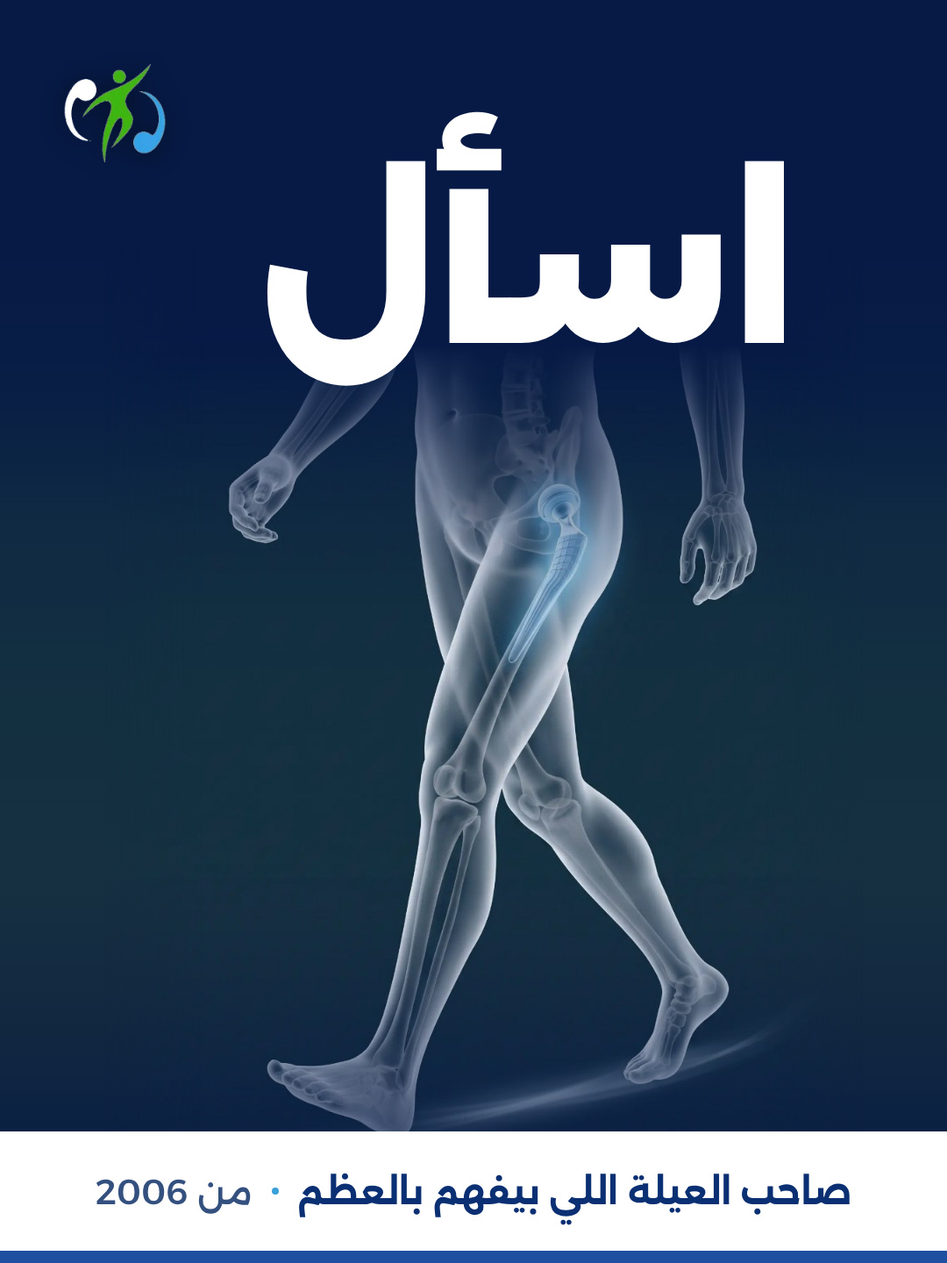
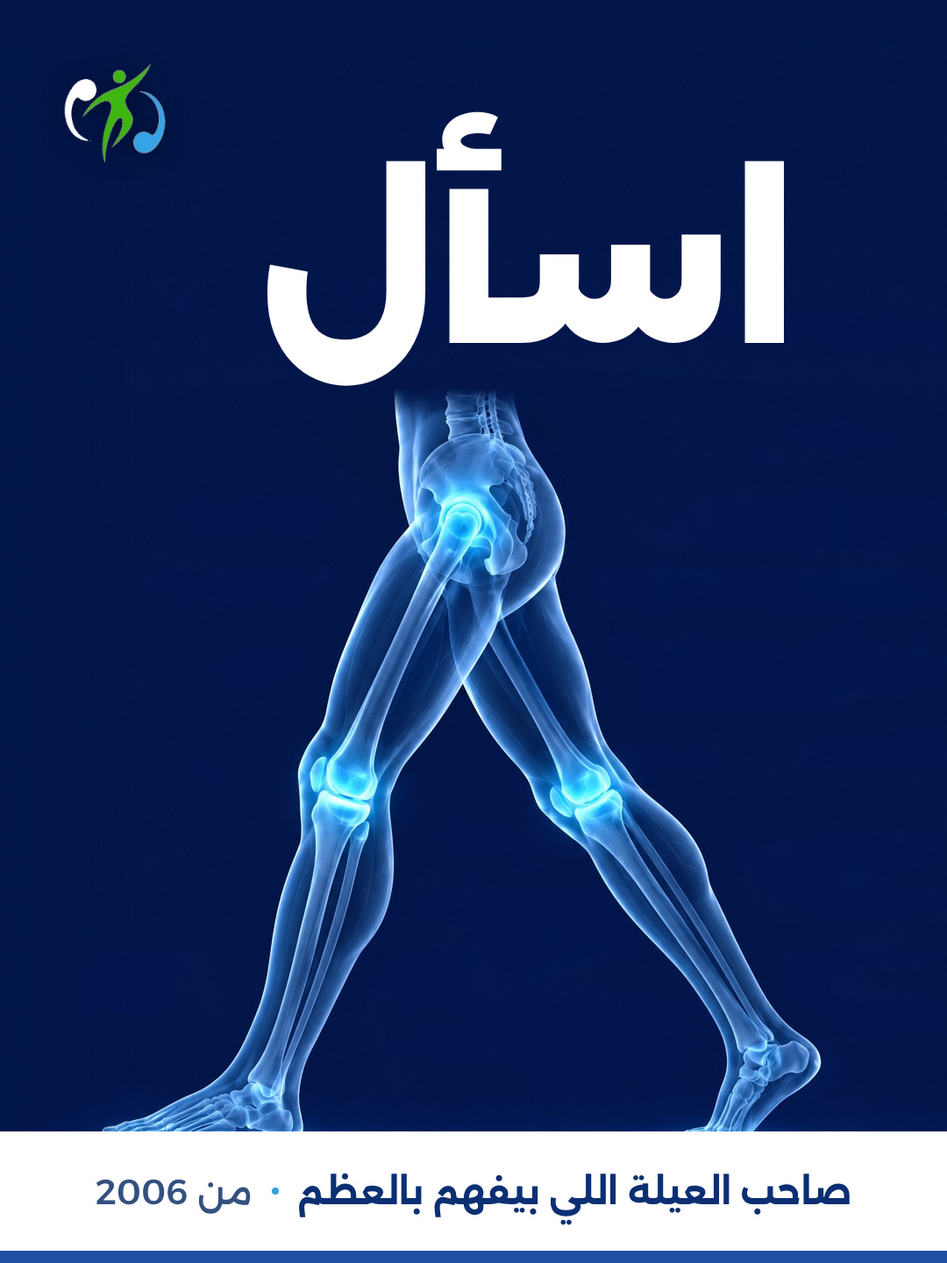
Add five more pinned-post versions and two highlight styles for AskMed
Versions B-F (white, journey, WhatsApp questions, and a single
Higgsfield panorama in two cuts) next to A, which now uses a new
Higgsfield image instead of the hip carousel's. White and blue
highlight cover styles, plus comparison sheets for both.

Claude-Session: https://claude.ai/code/session_011gFdiWchE1AAy7uyGwssmg

diff --git a/askmed-instagram/source/versions.html b/askmed-instagram/source/versions.html
@@ -1,0 +1,222 @@
+<!doctype html>
+<html lang="ar" dir="rtl">
+<head>
+<meta charset="utf-8">
+<link href="https://fonts.googleapis.com/css2?family=Alexandria:wght@400;500;600;700;800;900&display=swap" rel="stylesheet">
+<style>
+  :root { --navy: #061A45; --ink: #0A2F72; --logo-navy: #0A4A9C; --logo-sky: #2F9FE4; --sky: #63B8F7; --green: #5BB52C; --soft: #CFE3FA; }
+  * { box-sizing: border-box; }
+  html, body { margin: 0; padding: 0; background: #000; }
+  .pano { position: relative; width: 3240px; height: 1440px; overflow: hidden; font-family: 'Alexandria', sans-serif; }
+  .abs { position: absolute; }
+  .ltr { direction: ltr; unicode-bidi: isolate; }
+  .stripe { position: absolute; left: 0; right: 0; height: 12px; display: flex; direction: ltr; }
+  .stripe div { flex: 1; }
+  .cell { position: absolute; width: 1080px; display: flex; align-items: center; justify-content: center; gap: 20px; white-space: nowrap; font-weight: 700; font-size: 40px; }
+  .sep { width: 8px; height: 8px; border-radius: 50%; background: #3aa0da; }
+  .lock { position: absolute; top: 74px; display: flex; align-items: center; gap: 14px; direction: ltr; }
+  .lock .i { height: 92px; }
+  .lock .w { height: 50px; }
+
+  /* ---------- B · white, like the reference ---------- */
+  #B { background: #fff; color: var(--ink); }
+  #B .ring { position: absolute; border-radius: 50%; border: 3px solid #E4EFFA; }
+  #B .big { position: absolute; top: 400px; font-weight: 900; font-size: 420px; line-height: 1; letter-spacing: -6px; white-space: nowrap; direction: ltr; }
+  #B .tag { position: absolute; top: 880px; width: 1080px; text-align: center; font-size: 46px; font-weight: 600; color: #34507f; }
+  #B .tag b { color: var(--logo-sky); font-weight: 800; }
+  #B .photo { position: absolute; left: 2160px; top: 0; width: 1080px; height: 1300px; object-fit: cover; }
+  #B .shade { position: absolute; left: 2160px; top: 0; width: 1080px; height: 1300px;
+              background: linear-gradient(to bottom, rgba(2,22,74,0.9) 0%, rgba(2,22,74,0.5) 26%, rgba(2,22,74,0) 46%); }
+  #B .bar { position: absolute; left: 0; right: 0; bottom: 0; height: 140px; background: var(--ink); color: #fff; }
+
+  /* ---------- C · the journey ---------- */
+  #C { background: #02164a; color: #fff; }
+  #C .photo { position: absolute; top: 0; width: 1080px; height: 1440px; object-fit: cover; }
+  #C .shade { position: absolute; top: 0; width: 1080px; height: 1440px;
+              background: linear-gradient(to bottom, rgba(2,22,74,0.9) 0%, rgba(2,22,74,0.6) 27%, rgba(2,22,74,0) 46%, rgba(2,22,74,0) 60%, rgba(2,22,74,0.96) 82%); }
+  #C .mid { position: absolute; left: 1080px; top: 0; width: 1080px; height: 1440px;
+            background: radial-gradient(circle at 50% 52%, #0c2f78 0%, #05205f 40%, #02164a 78%); }
+  #C .phrase { position: absolute; top: 120px; width: 1080px; padding: 0 90px; text-align: right; font-weight: 900; font-size: 150px; line-height: 1.32; }
+  #C .phrase.acc { color: var(--sky); filter: drop-shadow(0 0 36px rgba(99,184,247,0.5)); }
+  #C .midlogo { position: absolute; left: 1080px; width: 1080px; top: 640px; display: flex; flex-direction: column; align-items: center; gap: 28px; }
+  #C .midlogo .row { display: flex; align-items: center; gap: 22px; direction: ltr; }
+  #C .midlogo .row img.i { height: 150px; }
+  #C .midlogo .row img.w { height: 110px; }
+  #C .midlogo .t { font-size: 44px; font-weight: 600; color: var(--soft); }
+  #C .track { position: absolute; top: 1128px; left: 150px; width: 2940px; height: 0; border-top: 5px dashed rgba(99,184,247,0.55); }
+  #C .node { position: absolute; top: 1106px; width: 48px; height: 48px; margin-left: -24px; border-radius: 50%; background: var(--sky); box-shadow: 0 0 0 10px rgba(99,184,247,0.22), 0 0 30px rgba(99,184,247,0.7); }
+  #C .node.g { background: var(--green); box-shadow: 0 0 0 10px rgba(91,181,44,0.22), 0 0 30px rgba(91,181,44,0.7); }
+  #C .nlabel { position: absolute; top: 1180px; width: 600px; margin-left: -300px; text-align: center; font-size: 42px; font-weight: 700; }
+  #C .arrow { position: absolute; top: 1110px; left: 104px; width: 0; height: 0; border-top: 20px solid transparent; border-bottom: 20px solid transparent; border-right: 34px solid rgba(99,184,247,0.85); }
+  #C .bar { position: absolute; left: 0; right: 0; bottom: 0; height: 120px; background: rgba(3,14,40,0.85); color: #fff; }
+  #C .bar .cell { font-size: 36px; font-weight: 600; color: #E6F0FB; }
+
+  /* ---------- D · questions from WhatsApp ---------- */
+  #D { background: #EEF6FD; color: var(--ink); }
+  #D .dots { position: absolute; inset: 0; background-image: radial-gradient(rgba(10,47,114,0.07) 3px, transparent 3.5px); background-size: 44px 44px; }
+  #D .word { position: absolute; top: 230px; width: 1080px; padding: 0 90px; text-align: right; font-weight: 900; font-size: 250px; line-height: 1.2; white-space: nowrap; }
+  #D .word.acc { color: var(--logo-sky); }
+  .bub { position: absolute; max-width: 860px; padding: 34px 44px; font-size: 44px; font-weight: 600; line-height: 1.6; border-radius: 48px; box-shadow: 0 18px 40px -22px rgba(10,47,114,0.45); }
+  .bub.q { background: #fff; color: var(--ink); border-top-right-radius: 10px; }
+  .bub.a { background: var(--ink); color: #fff; border-top-left-radius: 10px; }
+  .bub .who { display: block; font-size: 30px; font-weight: 700; color: #6a7f9f; margin-bottom: 8px; }
+  .bub.a .who { color: var(--sky); }
+  .wa { display: inline-flex; align-items: center; gap: 16px; background: #fff; color: var(--ink); border-radius: 999px; padding: 18px 36px; font-size: 42px; font-weight: 800; }
+  #D .bar { position: absolute; left: 0; right: 0; bottom: 0; height: 130px; background: #fff; color: var(--ink); }
+
+  /* ---------- E / F · one image across the three posts ---------- */
+  .pe { color: #fff; background: #02164a; }
+  .pe .bg { position: absolute; left: 0; top: 0; width: 3240px; height: 1440px; }
+  .pe .top { position: absolute; left: 0; top: 0; width: 3240px; height: 520px; background: linear-gradient(to bottom, rgba(2,22,74,0.55), rgba(2,22,74,0)); }
+  .pe .w { position: absolute; top: 90px; width: 1080px; padding: 0 100px; text-align: right; font-weight: 900; font-size: 210px; line-height: 1.25; white-space: nowrap; }
+  .pe .w.acc { color: var(--sky); filter: drop-shadow(0 0 36px rgba(99,184,247,0.55)); }
+  .pe .lbl { position: absolute; top: 375px; width: 1080px; padding: 0 104px; text-align: right; font-size: 46px; font-weight: 700; color: var(--soft); }
+  .pe .lbl span { display: inline-block; background: rgba(99,184,247,0.16); border: 2px solid rgba(99,184,247,0.45); border-radius: 999px; padding: 8px 28px; }
+  .pe .icon { position: absolute; top: 74px; height: 96px; }
+  .pe .bar { position: absolute; left: 0; right: 0; bottom: 0; height: 120px; background: rgba(1,10,40,0.82); }
+  .pe .bar .cell { font-size: 36px; font-weight: 600; color: #E6F0FB; }
+</style>
+</head>
+<body>
+
+<!-- ======================= B ======================= -->
+<div class="pano" id="B">
+  <div class="ring" style="left: 380px; top: -140px; width: 1400px; height: 1400px;"></div>
+  <div class="ring" style="left: 560px; top: 40px; width: 1040px; height: 1040px;"></div>
+
+  <div class="lock" style="left: 72px"><img class="i" src="assets/icon-dark.png" alt=""><img class="w" src="assets/wordmark-dark.png" alt=""></div>
+  <div class="lock" style="left: 1152px"><img class="i" src="assets/icon-dark.png" alt=""><img class="w" src="assets/wordmark-dark.png" alt=""></div>
+
+  <div class="big" style="right: calc(3240px - 1080px + 22px); color: var(--logo-navy)">Ask</div>
+  <div class="big" style="left: calc(1080px - 6px); color: var(--logo-sky)">med</div>
+
+  <div class="tag" style="left: 0">من 2006 <b>·</b> طرابلس، لبنان</div>
+  <div class="tag" style="left: 1080px">عظم وتعافي <b>·</b> مع دكاترة الشمال</div>
+
+  <img class="photo" src="assets/tray.jpg" alt="">
+  <div class="shade"></div>
+  <div class="abs" style="left: 2160px; top: 120px; width: 1080px; padding: 0 100px; text-align: right; color: #fff;">
+    <div style="font-size: 170px; font-weight: 900; line-height: 1.3;">تعرّف</div>
+    <div style="font-size: 170px; font-weight: 900; line-height: 1.3; color: var(--sky);">على</div>
+  </div>
+
+  <div class="bar">
+    <div class="stripe" style="top: 0"><div style="background:#1f4fa0"></div><div style="background:#3aa0da"></div><div style="background:#3f9a35"></div></div>
+    <div class="cell" style="left: 0; top: 12px; height: 128px"><span class="ltr">@askmedlb</span><span class="sep"></span><span class="ltr" style="font-weight:500">askmedlb.com</span></div>
+    <div class="cell" style="left: 1080px; top: 12px; height: 128px"><span class="ltr">+961 76 103 507</span><span class="sep"></span><span style="font-weight:500">للأسئلة والطلبات</span></div>
+    <div class="cell" style="left: 2160px; top: 12px; height: 128px"><span>صاحب العيلة اللي بيفهم بالعظم</span></div>
+  </div>
+</div>
+
+<!-- ======================= C ======================= -->
+<div class="pano" id="C">
+  <img class="abs" src="assets/legs.jpg" alt="" style="left: 110px; top: 250px; width: 860px; height: 1151px; -webkit-mask-image: linear-gradient(to right, transparent 0, #000 12%, #000 88%, transparent 100%); mask-image: linear-gradient(to right, transparent 0, #000 12%, #000 88%, transparent 100%);">
+  <div class="shade" style="left: 0"></div>
+  <div class="mid"></div>
+  <img class="photo" src="assets/tray.jpg" alt="" style="left: 2160px">
+  <div class="shade" style="left: 2160px"></div>
+
+  <div class="phrase" style="left: 2160px">من غرفة<br>العمليات</div>
+  <div class="phrase" style="left: 1080px">لحدّ ما</div>
+  <div class="phrase acc" style="left: 0">ترجع<br>تمشي.</div>
+
+  <div class="midlogo">
+    <div class="row"><img class="i" src="assets/icon-white.png" alt=""><img class="w" src="assets/wordmark-white.png" alt="Askmed"></div>
+    <div class="t">معك بكل خطوة، من 2006</div>
+  </div>
+
+  <div class="track"></div>
+  <div class="arrow"></div>
+  <div class="node" style="left: 2700px"></div>
+  <div class="node" style="left: 1620px"></div>
+  <div class="node g" style="left: 540px"></div>
+  <div class="nlabel" style="left: 2700px">العملية</div>
+  <div class="nlabel" style="left: 1620px">التعافي بالبيت</div>
+  <div class="nlabel" style="left: 540px">أوّل خطوة</div>
+
+  <div class="bar">
+    <div class="cell" style="left: 0; top: 0; height: 108px"><span class="ltr">@askmedlb</span><span class="sep"></span><span class="ltr">askmedlb.com</span></div>
+    <div class="cell" style="left: 1080px; top: 0; height: 108px">
+      <svg width="40" height="40" viewBox="0 0 24 24" fill="none" stroke="#7fd174" stroke-width="2.2" stroke-linecap="round" stroke-linejoin="round" aria-hidden="true"><path d="M21 11.5a8.4 8.4 0 0 1-12.4 7.4L3 20.5l1.7-5.4A8.4 8.4 0 1 1 21 11.5z"></path></svg>
+      <span class="ltr">+961 76 103 507</span></div>
+    <div class="cell" style="left: 2160px; top: 0; height: 108px"><span>صاحب العيلة اللي بيفهم بالعظم</span></div>
+    <div class="stripe" style="bottom: 0"><div style="background:#1f4fa0"></div><div style="background:#3aa0da"></div><div style="background:#3f9a35"></div></div>
+  </div>
+</div>
+
+<!-- ======================= D ======================= -->
+<div class="pano" id="D">
+  <div class="dots"></div>
+  <img class="abs" src="assets/icon-dark.png" alt="" style="left: 72px; top: 74px; height: 100px">
+  <img class="abs" src="assets/icon-dark.png" alt="" style="left: 1152px; top: 74px; height: 100px">
+  <img class="abs" src="assets/icon-dark.png" alt="" style="left: 2232px; top: 74px; height: 100px">
+
+  <div class="word" style="left: 2160px">عندك</div>
+  <div class="word" style="left: 1080px">سؤال؟</div>
+  <div class="word acc" style="left: 0">اسألنا.</div>
+
+  <!-- questions, the way they come in on WhatsApp -->
+  <div class="bub q" style="right: 110px; top: 720px; max-width: 860px;"><span class="who">سؤال من الواتساب</span>إمّي رح تعمل عملية ركبة، شو لازم نحضّر بالبيت؟</div>
+  <div class="bub q" style="right: calc(1080px + 110px); top: 690px; max-width: 820px;"><span class="who">سؤال من الواتساب</span>شو القياس المناسب لمشدّ الضهر؟</div>
+  <div class="bub q" style="right: calc(1080px + 250px); top: 980px; max-width: 700px;">بتوصلوا لعكّار؟</div>
+
+  <!-- the answer -->
+  <div class="bub a" style="left: 110px; top: 700px; max-width: 860px;"><span class="who">Askmed</span>أكيد! ابعتلنا سؤالك، ومنجاوبك بوضوح، خطوة بخطوة.</div>
+  <div class="abs" style="left: 110px; top: 1030px; direction: ltr;"><span class="wa">
+    <svg width="46" height="46" viewBox="0 0 24 24" fill="none" stroke="#3f9a35" stroke-width="2.2" stroke-linecap="round" stroke-linejoin="round" aria-hidden="true"><path d="M21 11.5a8.4 8.4 0 0 1-12.4 7.4L3 20.5l1.7-5.4A8.4 8.4 0 1 1 21 11.5z"></path></svg>
+    +961 76 103 507</span></div>
+
+  <div class="bar">
+    <div class="cell" style="left: 0; top: 0; height: 118px"><span class="ltr">@askmedlb</span><span class="sep"></span><span class="ltr" style="font-weight:500">askmedlb.com</span></div>
+    <div class="cell" style="left: 1080px; top: 0; height: 118px"><span>عظم، كسور، وتعافي</span><span class="sep"></span><span style="font-weight:500">من 2006</span></div>
+    <div class="cell" style="left: 2160px; top: 0; height: 118px"><span>صاحب العيلة اللي بيفهم بالعظم</span></div>
+    <div class="stripe" style="bottom: 0"><div style="background:#1f4fa0"></div><div style="background:#3aa0da"></div><div style="background:#3f9a35"></div></div>
+  </div>
+</div>
+
+
+<div class="pano pe" id="E">
+  <img class="bg" src="assets/pano2.jpg" alt="">
+  <div class="top"></div>
+  <img class="icon" src="assets/icon-white.png" alt="" style="left: 72px">
+  <img class="icon" src="assets/icon-white.png" alt="" style="left: 1152px">
+  <img class="icon" src="assets/icon-white.png" alt="" style="left: 2232px">
+  <div class="w" style="left: 2160px">خطوة</div>
+  <div class="w" style="left: 1080px">بخطوة،</div>
+  <div class="w acc" style="left: 0">معك.</div>
+  <div class="lbl" style="left: 2160px"><span>أوّل يوم بعد العملية</span></div>
+  <div class="lbl" style="left: 1080px"><span>أوّل خطوة</span></div>
+  <div class="lbl" style="left: 0"><span>رجعت تمشي</span></div>
+  <div class="bar">
+    <div class="cell" style="left: 0; top: 0; height: 108px"><span class="ltr">@askmedlb</span><span class="sep"></span><span class="ltr">askmedlb.com</span></div>
+    <div class="cell" style="left: 1080px; top: 0; height: 108px">
+      <svg width="40" height="40" viewBox="0 0 24 24" fill="none" stroke="#7fd174" stroke-width="2.2" stroke-linecap="round" stroke-linejoin="round" aria-hidden="true"><path d="M21 11.5a8.4 8.4 0 0 1-12.4 7.4L3 20.5l1.7-5.4A8.4 8.4 0 1 1 21 11.5z"></path></svg>
+      <span class="ltr">+961 76 103 507</span></div>
+    <div class="cell" style="left: 2160px; top: 0; height: 108px"><span>Askmed معك من 2006</span></div>
+    <div class="stripe" style="bottom: 0"><div style="background:#1f4fa0"></div><div style="background:#3aa0da"></div><div style="background:#3f9a35"></div></div>
+  </div>
+</div>
+
+<div class="pano pe" id="F">
+  <img class="bg" src="assets/pano1.jpg" alt="">
+  <div class="top"></div>
+  <img class="icon" src="assets/icon-white.png" alt="" style="left: 72px">
+  <img class="icon" src="assets/icon-white.png" alt="" style="left: 1152px">
+  <img class="icon" src="assets/icon-white.png" alt="" style="left: 2232px">
+  <div class="w" style="left: 2160px">خطوة</div>
+  <div class="w" style="left: 1080px">بخطوة،</div>
+  <div class="w acc" style="left: 0">معك.</div>
+  <div class="lbl" style="left: 2160px"><span>أوّل يوم بعد العملية</span></div>
+  <div class="lbl" style="left: 1080px"><span>أوّل خطوة</span></div>
+  <div class="lbl" style="left: 0"><span>رجعت تمشي</span></div>
+  <div class="bar">
+    <div class="cell" style="left: 0; top: 0; height: 108px"><span class="ltr">@askmedlb</span><span class="sep"></span><span class="ltr">askmedlb.com</span></div>
+    <div class="cell" style="left: 1080px; top: 0; height: 108px">
+      <svg width="40" height="40" viewBox="0 0 24 24" fill="none" stroke="#7fd174" stroke-width="2.2" stroke-linecap="round" stroke-linejoin="round" aria-hidden="true"><path d="M21 11.5a8.4 8.4 0 0 1-12.4 7.4L3 20.5l1.7-5.4A8.4 8.4 0 1 1 21 11.5z"></path></svg>
+      <span class="ltr">+961 76 103 507</span></div>
+    <div class="cell" style="left: 2160px; top: 0; height: 108px"><span>Askmed معك من 2006</span></div>
+    <div class="stripe" style="bottom: 0"><div style="background:#1f4fa0"></div><div style="background:#3aa0da"></div><div style="background:#3f9a35"></div></div>
+  </div>
+</div>
+</body>
+</html>

diff --git a/askmed-instagram/source/compare.html b/askmed-instagram/source/compare.html
@@ -1,0 +1,27 @@
+<!doctype html><html lang="ar" dir="rtl"><head><meta charset="utf-8">
+<link href="https://fonts.googleapis.com/css2?family=Alexandria:wght@400;600;800;900&display=swap" rel="stylesheet">
+<style>*{box-sizing:border-box}html,body{margin:0;background:#fff}
+.sheet{width:1080px;background:#fff;font-family:'Alexandria',sans-serif;color:#0A2F72;padding:36px 0 30px}
+.v{padding:26px 0 18px}.v+.v{border-top:1px solid #e3e8ef}
+.h{display:flex;align-items:center;gap:18px;padding:0 36px 16px}
+.k{flex:0 0 auto;width:64px;height:64px;border-radius:50%;background:#0A2F72;color:#fff;display:flex;align-items:center;justify-content:center;font-size:34px;font-weight:900;font-family:Arial,sans-serif}
+.t{font-size:34px;font-weight:800;line-height:1.3}.d{font-size:23px;font-weight:400;color:#5b6b85;line-height:1.5;margin-top:2px}
+.grid{display:flex;direction:ltr;gap:3px}.grid img{width:358px;display:block}
+.row{display:flex;gap:20px;padding:0 36px}.c{width:150px;display:flex;flex-direction:column;align-items:center;gap:10px}
+.ring{width:148px;height:148px;border-radius:50%;padding:6px;border:3px solid #d6dbe3}
+.ring div{width:100%;height:100%;border-radius:50%;background-size:145% auto;background-position:center}
+.c b{font-size:21px;font-weight:600;color:#13213a;white-space:nowrap}
+</style></head><body>
+<div class="sheet" id="compare">
+<div class="v"><div class="h"><div class="k">A</div><div><div class="t">«اسأل Askmed» · كحلي</div><div class="d">الكلمة مقسومة عـ 3 متل اللوغو، وتحت كل وحدة معلومة.</div></div></div><div class="grid"><img src="/home/user/invitation/askmed-instagram/pinned/post-3_left.jpg" alt=""><img src="/home/user/invitation/askmed-instagram/pinned/post-2_middle.jpg" alt=""><img src="/home/user/invitation/askmed-instagram/pinned/post-1_right.jpg" alt=""></div></div>
+<div class="v"><div class="h"><div class="k">B</div><div><div class="t">«تعرّف على Askmed» · أبيض</div><div class="d">الأقرب لصفحة الدكتورة: أبيض، اسم كبير، وصورة عاليمين.</div></div></div><div class="grid"><img src="/home/user/invitation/askmed-instagram/versions/B-ta3arraf-3ala-askmed/post-3_left.jpg" alt=""><img src="/home/user/invitation/askmed-instagram/versions/B-ta3arraf-3ala-askmed/post-2_middle.jpg" alt=""><img src="/home/user/invitation/askmed-instagram/versions/B-ta3arraf-3ala-askmed/post-1_right.jpg" alt=""></div></div>
+<div class="v"><div class="h"><div class="k">C</div><div><div class="t">«من غرفة العمليات لحدّ ما ترجع تمشي»</div><div class="d">قصة بـ 3 مراحل، وخط بيوصل بيناتهن.</div></div></div><div class="grid"><img src="/home/user/invitation/askmed-instagram/versions/C-men-ghorfet-el-3amaliyyet/post-3_left.jpg" alt=""><img src="/home/user/invitation/askmed-instagram/versions/C-men-ghorfet-el-3amaliyyet/post-2_middle.jpg" alt=""><img src="/home/user/invitation/askmed-instagram/versions/C-men-ghorfet-el-3amaliyyet/post-1_right.jpg" alt=""></div></div>
+<div class="v"><div class="h"><div class="k">D</div><div><div class="t">«عندك سؤال؟ اسألنا.» · فاتح</div><div class="d">أسئلة متل اللي بتوصل عالواتساب، والجواب من Askmed.</div></div></div><div class="grid"><img src="/home/user/invitation/askmed-instagram/versions/D-3endak-so2al/post-3_left.jpg" alt=""><img src="/home/user/invitation/askmed-instagram/versions/D-3endak-so2al/post-2_middle.jpg" alt=""><img src="/home/user/invitation/askmed-instagram/versions/D-3endak-so2al/post-1_right.jpg" alt=""></div></div>
+<div class="v"><div class="h"><div class="k">E</div><div><div class="t">«خطوة بخطوة، معك.» · صورة وحدة عالـ 3</div><div class="d">صورة Higgsfield وحدة عريضة: من التخت، للـ walker، للمشي.</div></div></div><div class="grid"><img src="/home/user/invitation/askmed-instagram/versions/E-khotwe-b-khotwe/post-3_left.jpg" alt=""><img src="/home/user/invitation/askmed-instagram/versions/E-khotwe-b-khotwe/post-2_middle.jpg" alt=""><img src="/home/user/invitation/askmed-instagram/versions/E-khotwe-b-khotwe/post-1_right.jpg" alt=""></div></div>
+<div class="v"><div class="h"><div class="k">F</div><div><div class="t">«خطوة بخطوة، معك.» · نفس E برجّال</div><div class="d">نفس الفكرة، والعكّازة بدل الـ walker.</div></div></div><div class="grid"><img src="/home/user/invitation/askmed-instagram/versions/F-khotwe-b-khotwe-rajol/post-3_left.jpg" alt=""><img src="/home/user/invitation/askmed-instagram/versions/F-khotwe-b-khotwe-rajol/post-2_middle.jpg" alt=""><img src="/home/user/invitation/askmed-instagram/versions/F-khotwe-b-khotwe-rajol/post-1_right.jpg" alt=""></div></div>
+</div>
+<div class="sheet" id="hlstyles">
+<div class="v"><div class="h"><div class="k">1</div><div><div class="t">highlights · كحلي</div></div></div><div class="row"><div class="c"><div class="ring"><div style="background-image:url(/home/user/invitation/askmed-instagram/highlights/covers/1-min-nehna.jpg)"></div></div><b>مين نحنا</b></div><div class="c"><div class="ring"><div style="background-image:url(/home/user/invitation/askmed-instagram/highlights/covers/2-el-montajet.jpg)"></div></div><b>المنتجات</b></div><div class="c"><div class="ring"><div style="background-image:url(/home/user/invitation/askmed-instagram/highlights/covers/3-is2alna.jpg)"></div></div><b>اسألنا</b></div><div class="c"><div class="ring"><div style="background-image:url(/home/user/invitation/askmed-instagram/highlights/covers/4-el-2iyesat.jpg)"></div></div><b>القياسات</b></div><div class="c"><div class="ring"><div style="background-image:url(/home/user/invitation/askmed-instagram/highlights/covers/5-el-tawsil.jpg)"></div></div><b>التوصيل</b></div><div class="c"><div class="ring"><div style="background-image:url(/home/user/invitation/askmed-instagram/highlights/covers/6-wen-nehna.jpg)"></div></div><b>وين نحنا</b></div></div></div>
+<div class="v"><div class="h"><div class="k">2</div><div><div class="t">highlights · أبيض</div></div></div><div class="row"><div class="c"><div class="ring"><div style="background-image:url(/home/user/invitation/askmed-instagram/highlights/covers-white/1-min-nehna.jpg)"></div></div><b>مين نحنا</b></div><div class="c"><div class="ring"><div style="background-image:url(/home/user/invitation/askmed-instagram/highlights/covers-white/2-el-montajet.jpg)"></div></div><b>المنتجات</b></div><div class="c"><div class="ring"><div style="background-image:url(/home/user/invitation/askmed-instagram/highlights/covers-white/3-is2alna.jpg)"></div></div><b>اسألنا</b></div><div class="c"><div class="ring"><div style="background-image:url(/home/user/invitation/askmed-instagram/highlights/covers-white/4-el-2iyesat.jpg)"></div></div><b>القياسات</b></div><div class="c"><div class="ring"><div style="background-image:url(/home/user/invitation/askmed-instagram/highlights/covers-white/5-el-tawsil.jpg)"></div></div><b>التوصيل</b></div><div class="c"><div class="ring"><div style="background-image:url(/home/user/invitation/askmed-instagram/highlights/covers-white/6-wen-nehna.jpg)"></div></div><b>وين نحنا</b></div></div></div>
+<div class="v"><div class="h"><div class="k">3</div><div><div class="t">highlights · أزرق</div></div></div><div class="row"><div class="c"><div class="ring"><div style="background-image:url(/home/user/invitation/askmed-instagram/highlights/covers-blue/1-min-nehna.jpg)"></div></div><b>مين نحنا</b></div><div class="c"><div class="ring"><div style="background-image:url(/home/user/invitation/askmed-instagram/highlights/covers-blue/2-el-montajet.jpg)"></div></div><b>المنتجات</b></div><div class="c"><div class="ring"><div style="background-image:url(/home/user/invitation/askmed-instagram/highlights/covers-blue/3-is2alna.jpg)"></div></div><b>اسألنا</b></div><div class="c"><div class="ring"><div style="background-image:url(/home/user/invitation/askmed-instagram/highlights/covers-blue/4-el-2iyesat.jpg)"></div></div><b>القياسات</b></div><div class="c"><div class="ring"><div style="background-image:url(/home/user/invitation/askmed-instagram/highlights/covers-blue/5-el-tawsil.jpg)"></div></div><b>التوصيل</b></div><div class="c"><div class="ring"><div style="background-image:url(/home/user/invitation/askmed-instagram/highlights/covers-blue/6-wen-nehna.jpg)"></div></div><b>وين نحنا</b></div></div></div>
+</div></body></html>

diff --git a/askmed-instagram/source/pinned.html b/askmed-instagram/source/pinned.html
@@ -21,16 +21,14 @@
     font-family: 'Alexandria', sans-serif;
     color: #fff;
     /* stops follow the walking-figure image so its edges disappear into the background */
-    background: linear-gradient(to bottom,
-      #071a45 0px, #071a45 280px, #081e45 440px, #102a43 600px,
-      #133040 820px, #163041 1000px, #122840 1160px, #071d44 1360px, #071d44 1440px);
+    background: #02164a;
   }
   .walk {
     position: absolute;
-    left: 2280px; top: 280px;
-    width: 864px; height: 1080px;
-    -webkit-mask-image: linear-gradient(to right, transparent 0, #000 13%, #000 87%, transparent 100%);
-            mask-image: linear-gradient(to right, transparent 0, #000 13%, #000 87%, transparent 100%);
+    left: 2160px; top: 50px;
+    width: 1080px; height: 1446px;
+    -webkit-mask-image: linear-gradient(to right, transparent 0, #000 14%, #000 100%);
+            mask-image: linear-gradient(to right, transparent 0, #000 14%, #000 100%);
   }
   .glow {
     position: absolute;
@@ -87,7 +85,7 @@
 </head>
 <body>
 <div id="pano">
-  <img class="walk" src="assets/walk.jpg" alt="">
+  <img class="walk" src="assets/legs.jpg" alt="">
   <div class="glow"></div>
 
   <!-- logo icon, top-left of each tile -->

diff --git a/askmed-instagram/source/gen_sheets.py b/askmed-instagram/source/gen_sheets.py
@@ -1,0 +1,34 @@
+# Builds compare.html (all pinned versions) and hl-styles.html (highlight cover styles).
+import json, sys
+O = '/home/user/invitation/askmed-instagram'
+versions = json.load(open('versions.json', encoding='utf-8'))
+head = '''<!doctype html><html lang="ar" dir="rtl"><head><meta charset="utf-8">
+<link href="https://fonts.googleapis.com/css2?family=Alexandria:wght@400;600;800;900&display=swap" rel="stylesheet">
+<style>*{box-sizing:border-box}html,body{margin:0;background:#fff}
+.sheet{width:1080px;background:#fff;font-family:'Alexandria',sans-serif;color:#0A2F72;padding:36px 0 30px}
+.v{padding:26px 0 18px}.v+.v{border-top:1px solid #e3e8ef}
+.h{display:flex;align-items:center;gap:18px;padding:0 36px 16px}
+.k{flex:0 0 auto;width:64px;height:64px;border-radius:50%;background:#0A2F72;color:#fff;display:flex;align-items:center;justify-content:center;font-size:34px;font-weight:900;font-family:Arial,sans-serif}
+.t{font-size:34px;font-weight:800;line-height:1.3}.d{font-size:23px;font-weight:400;color:#5b6b85;line-height:1.5;margin-top:2px}
+.grid{display:flex;direction:ltr;gap:3px}.grid img{width:358px;display:block}
+.row{display:flex;gap:20px;padding:0 36px}.c{width:150px;display:flex;flex-direction:column;align-items:center;gap:10px}
+.ring{width:148px;height:148px;border-radius:50%;padding:6px;border:3px solid #d6dbe3}
+.ring div{width:100%;height:100%;border-radius:50%;background-size:145% auto;background-position:center}
+.c b{font-size:21px;font-weight:600;color:#13213a;white-space:nowrap}
+</style></head><body>'''
+parts = [head, '<div class="sheet" id="compare">']
+for v in versions:
+    imgs = ''.join(f'<img src="{O}/{v["dir"]}/{n}.jpg" alt="">' for n in ['post-3_left', 'post-2_middle', 'post-1_right'])
+    parts.append(f'<div class="v"><div class="h"><div class="k">{v["key"]}</div><div><div class="t">{v["title"]}</div>'
+                 f'<div class="d">{v["desc"]}</div></div></div><div class="grid">{imgs}</div></div>')
+parts.append('</div>')
+labels = ['مين نحنا', 'المنتجات', 'اسألنا', 'القياسات', 'التوصيل', 'وين نحنا']
+slugs = ['1-min-nehna', '2-el-montajet', '3-is2alna', '4-el-2iyesat', '5-el-tawsil', '6-wen-nehna']
+styles = [('1', 'كحلي', 'covers'), ('2', 'أبيض', 'covers-white'), ('3', 'أزرق', 'covers-blue')]
+parts.append('<div class="sheet" id="hlstyles">')
+for k, name, d in styles:
+    cells = ''.join(f'<div class="c"><div class="ring"><div style="background-image:url({O}/highlights/{d}/{s}.jpg)"></div></div><b>{l}</b></div>'
+                    for s, l in zip(slugs, labels))
+    parts.append(f'<div class="v"><div class="h"><div class="k">{k}</div><div><div class="t">highlights · {name}</div></div></div><div class="row">{cells}</div></div>')
+parts.append('</div></body></html>')
+open('compare.html', 'w', encoding='utf-8').write('\n'.join(parts))

diff --git a/askmed-instagram/source/gen_hl_themes.py b/askmed-instagram/source/gen_hl_themes.py
@@ -1,0 +1,31 @@
+# Builds hl-themes.html: the six highlight covers in the white and blue styles.
+ICONS = [
+  'LOGO',
+  '<path d="M13 22h38l-3.2 32.5a2 2 0 0 1-2 1.8H18.2a2 2 0 0 1-2-1.8z"/><path d="M24 26v-7a8 8 0 0 1 16 0v7"/><path d="M27 40l4 4 7-8" stroke="{g}"/>',
+  '<path d="M12 12h40a3 3 0 0 1 3 3v24a3 3 0 0 1-3 3H30l-11 9v-9h-7a3 3 0 0 1-3-3V15a3 3 0 0 1 3-3z"/><path d="M27 23.5a5 5 0 1 1 7.2 4.5c-1.4.7-2.2 1.8-2.2 3.3v1" stroke="{s}"/><circle cx="32" cy="36.6" r="0.6" fill="{s}" stroke="{s}" stroke-width="2.6"/>',
+  '<path d="M8 44L44 8l12 12-36 36z"/><path d="M16.2 35.8l5 5M27.2 24.8l5 5M38.2 13.8l5 5" stroke="{g}"/><path d="M21.7 30.3l3 3M32.7 19.3l3 3" stroke="{s}"/>',
+  '<path d="M6 17h31v26H6z"/><path d="M37 25h10.5L56 34v9H37"/><circle cx="17" cy="45" r="5" fill="{bg}"/><circle cx="46" cy="45" r="5" fill="{bg}"/><path d="M13 26h12M13 32h8" stroke="{s}"/>',
+  '<path d="M32 57S15 41.5 15 27.5a17 17 0 0 1 34 0C49 41.5 32 57 32 57z"/><circle cx="32" cy="27" r="6.5" stroke="{g}"/>',
+]
+THEMES = {
+  'white': dict(bg='#ffffff', page='background:#ffffff', ring='#E1ECF8', stroke='#0A2F72', g='#3f9a35', s='#2F9FE4', logo='assets/icon-dark.png'),
+  'blue':  dict(bg='#2a72bd', page='background:linear-gradient(135deg,#1f4fa0 0%,#2f80c8 55%,#3aa0da 100%)', ring='rgba(255,255,255,0.35)', stroke='#ffffff', g='#C9F2B5', s='#D6EEFF', logo='assets/icon-white.png'),
+}
+frames = []
+for name, t in THEMES.items():
+    for icon in ICONS:
+        if icon == 'LOGO':
+            glyph = f'<img class="glyph" src="{t["logo"]}" alt="">'
+        else:
+            body = icon.format(g=t['g'], s=t['s'], bg=t['bg'])
+            glyph = (f'<div class="glyph"><svg viewBox="0 0 64 64" fill="none" stroke="{t["stroke"]}" stroke-width="3.2" '
+                     f'stroke-linecap="round" stroke-linejoin="round" aria-hidden="true">{body}</svg></div>')
+        frames.append(f'<div class="frame" style="{t["page"]}"><div class="disc" style="border-color:{t["ring"]}"></div>{glyph}</div>')
+html = '''<!doctype html><html><head><meta charset="utf-8"><style>
+*{box-sizing:border-box} html,body{margin:0;background:#000}
+.frame{position:relative;width:1080px;height:1920px;overflow:hidden}
+.disc{position:absolute;left:50%;top:50%;width:760px;height:760px;margin:-380px 0 0 -380px;border-radius:50%;border:6px solid}
+.glyph{position:absolute;left:50%;top:50%;width:440px;height:440px;margin:-220px 0 0 -220px;object-fit:contain}
+.glyph svg{width:100%;height:100%;display:block}
+</style></head><body>''' + '\n'.join(frames) + '</body></html>'
+open('hl-themes.html', 'w', encoding='utf-8').write(html)
